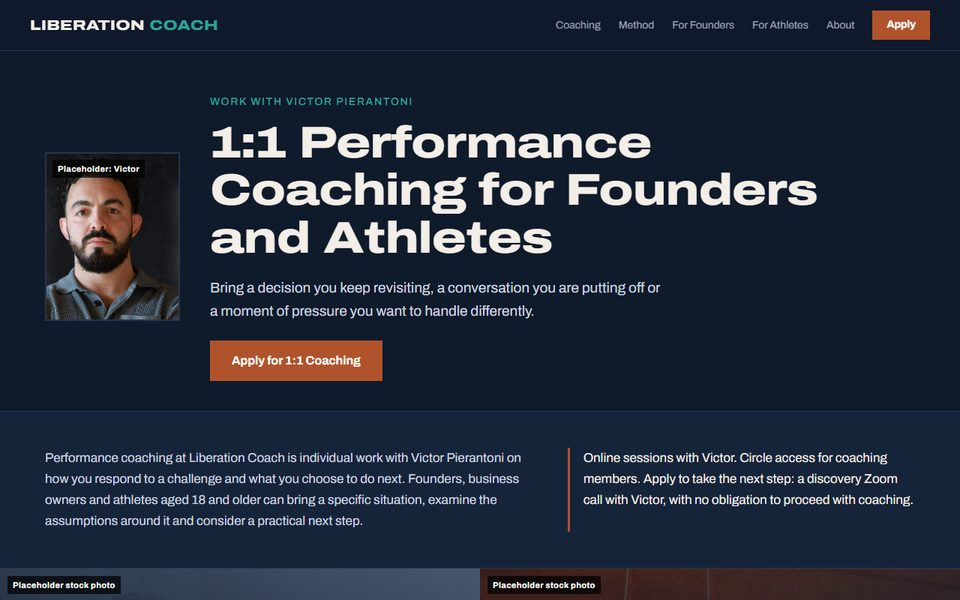
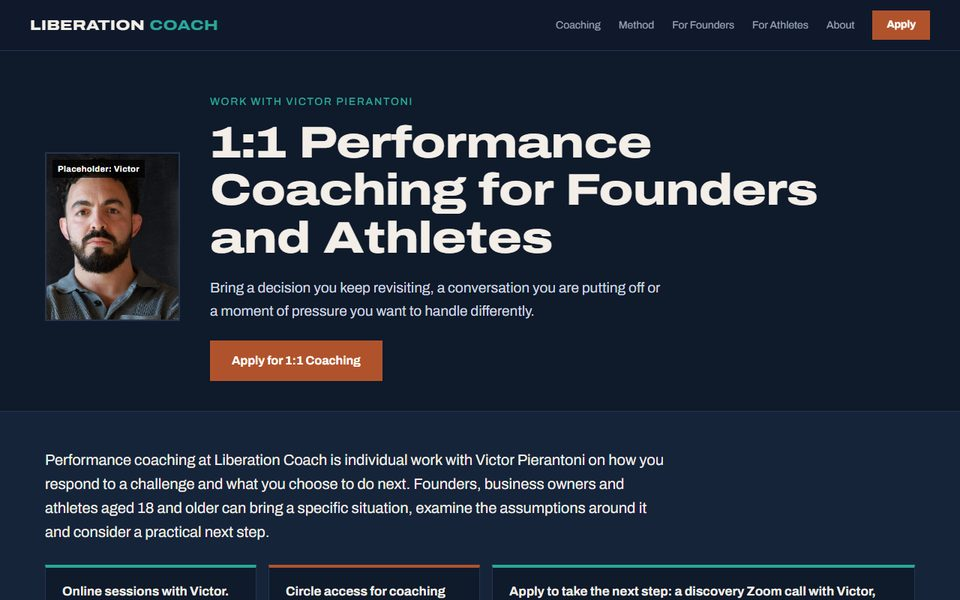
Distinct section designs per option; secondary links as real buttons
- Option 1: drop-cap intro with a fact box, wide banner photo for "Turn a
  Broad Concern", interview-style quick answers, double-ruled final card
- Option 2: text card overlapping the photo, reflection text on a card over
  the lake photo, centered answers with ornaments, arch-shaped final panel
- Option 3: three fact tiles, photo bleeding to the edge, Victor photo on a
  clay offset block, solid clay reflection band, answer cards, split final
- Secondary links now filled buttons with a border and arrow in each style

Changed region(s): [[0.0312, 0.75, 0.9688, 0.9], [0.0, 0.93, 1.0, 1.0]]

diff --git a/option-3/index.html b/option-3/index.html
@@ -28,9 +28,10 @@ header.open .mobile-nav{display:block}
 /* one Apply treatment: clay, white text */
 .btn{display:inline-block;background:var(--clay);color:#fff;border:1px solid var(--clay);font-weight:700;text-decoration:none;padding:16px 28px;font-size:16px;line-height:1.2;transition:background .2s}
 .btn:hover{background:var(--clay-d)}.btn.sm{padding:10px 18px;font-size:14px}
-.qbtn{display:inline-block;border:1px solid var(--teal);color:var(--cream);text-decoration:none;font-weight:700;font-size:14px;line-height:1.2;padding:9px 16px;transition:background .2s,color .2s}
-.qbtn:hover{background:var(--teal);color:var(--navy)}
-.qbtn.on-light{border-color:var(--navy);color:var(--navy)}.qbtn.on-light:hover{background:var(--navy);color:#fff}
+.qbtn{display:inline-flex;align-items:center;gap:10px;background:rgba(42,166,154,.18);border:2px solid var(--teal);border-radius:3px;color:#fff;text-decoration:none;font-weight:700;font-size:15px;line-height:1.2;padding:12px 20px;cursor:pointer;transition:background .2s,color .2s}
+.qbtn:after{content:"\2192";font-size:1.15em;transition:transform .2s}
+.qbtn:hover{background:var(--teal);color:var(--navy)}.qbtn:hover:after{transform:translateX(3px)}
+.qbtn.on-light{background:rgba(15,26,43,.07);border-color:var(--navy);color:var(--navy)}.qbtn.on-light:hover{background:var(--navy);color:#fff}
 .in{max-width:1240px;margin:0 auto;padding:0 40px}
 .eyebrow{color:var(--teal);font-size:14px;letter-spacing:.12em;text-transform:uppercase;font-weight:500;margin:0 0 12px}
 h1{font-size:clamp(36px,4.6vw,62px);line-height:1.08;margin:0 0 18px;letter-spacing:-.01em}
@@ -46,29 +47,36 @@ section{padding:var(--gap) 0}
 .sit{color:var(--body);max-width:56ch;font-size:19px;margin:0 0 24px}
 /* intro strip */
 .intro{background:var(--navy2);border-top:1px solid var(--line);border-bottom:1px solid var(--line)}
-.intro .in{display:grid;grid-template-columns:1.4fr 1fr;gap:48px}
-.intro p{margin:0;color:var(--body)}.intro .fact{color:var(--cream);border-left:3px solid var(--clay);padding-left:18px}
+.intro p{margin:0;color:var(--cream);font-size:20px;line-height:1.6;max-width:72ch}
+.facts{display:grid;grid-template-columns:1fr 1fr 2fr;gap:16px;list-style:none;padding:0;margin:28px 0 0}
+.facts li{background:var(--navy);border:1px solid var(--line);border-top:4px solid var(--teal);padding:20px 22px;font-weight:700;line-height:1.45}
+.facts li:nth-child(2){border-top-color:var(--clay)}
 /* arena: full-bleed split panels */
 .arena{display:grid;grid-template-columns:1fr 1fr;padding:0}
 .side{position:relative;padding:56px 48px 48px;display:flex;flex-direction:column;justify-content:flex-start;overflow:hidden}
 .side.f{background:linear-gradient(200deg,rgba(29,49,80,.82),rgba(15,26,43,.95) 70%),url(../assets/stock/founder-thinking.jpg) center/cover}
 .side.a{background:linear-gradient(160deg,rgba(59,36,32,.82),rgba(15,26,43,.95) 70%),url(../assets/stock/athlete-tennis-clay.jpg) center/cover}
 .side>*:not(.phl){position:relative}.side p{color:#d6dce5;max-width:50ch}.side h3{font-size:28px}.side .qbtn{align-self:flex-start}
-.side.a .qbtn{border-color:#e08a62}
+.side.a .qbtn{border-color:#e08a62;background:rgba(224,138,98,.18)}.side.a .qbtn:hover{background:#e08a62;color:var(--navy)}
 /* work */
-.work .in{display:grid;grid-template-columns:1.1fr .9fr;gap:64px;align-items:center}
-.work p{color:var(--body);max-width:60ch}
-.work img{width:100%;aspect-ratio:4/5;object-fit:cover;display:block;border-left:4px solid var(--clay)}
+.work{overflow:hidden}
+.work .in{display:grid;grid-template-columns:1fr 1fr;gap:64px;align-items:center}
+.work p{color:var(--body);max-width:60ch}.work strong{color:var(--teal)}
+.work .ph-wrap{margin-right:min(-40px,calc((1240px - 100vw)/2 - 40px))}
+.work img{width:100%;aspect-ratio:6/5;object-fit:cover;display:block;border-left:6px solid var(--clay)}
 /* meet: cream band */
 .meet{background:var(--cream);color:var(--navy)}
-.meet .in{display:grid;grid-template-columns:.8fr 1.2fr;gap:64px;align-items:center}
+.meet .in{display:grid;grid-template-columns:1.25fr .75fr;gap:80px;align-items:center}
+.meet .ph-wrap{box-shadow:20px 20px 0 var(--clay);margin:0 20px 20px 0}
 .meet img{width:100%;aspect-ratio:4/5;object-fit:cover;display:block}
 .meet p{color:#2b3647;max-width:60ch}.meet p a{color:var(--clay-d);font-weight:500}
 /* emotional: bar + photo background */
-.emo{background:linear-gradient(90deg,rgba(22,36,58,.97) 45%,rgba(22,36,58,.8)),url(../assets/stock/misty-lake.jpg) center/cover}
-.emo .in{display:grid;grid-template-columns:auto 1fr;gap:48px;align-items:start}
-.emo .bar{width:6px;height:100%;min-height:120px;background:linear-gradient(var(--teal),var(--clay))}
-.emo p{color:var(--body);max-width:64ch}
+.emo{background:var(--clay-d);color:#fff;display:grid;grid-template-columns:1.1fr .9fr;padding:0}
+.emo .txt{padding:var(--gap) 64px var(--gap) max(40px,calc((100vw - 1240px)/2 + 40px));align-self:center}
+.emo .bar{width:64px;height:6px;background:#fff;margin-bottom:22px}
+.emo p{color:#fff;max-width:56ch}
+.emo .ph-wrap{min-height:100%}.emo img{width:100%;height:100%;min-height:380px;object-fit:cover;display:block}
+.qbtn.on-clay{background:rgba(255,255,255,.14);border-color:#fff;color:#fff}.qbtn.on-clay:hover{background:#fff;color:var(--clay-d)}
 /* begin: cards on photo background */
 .begin{background:linear-gradient(rgba(15,26,43,.86),rgba(15,26,43,.93)),url(../assets/stock/video-call.jpg) center/cover;padding:var(--gap) 0 calc(var(--gap) - 20px)}
 .steps{display:grid;grid-template-columns:repeat(3,1fr);gap:20px;list-style:none;padding:0;margin:24px 0 26px;counter-reset:s}
@@ -76,13 +84,14 @@ section{padding:var(--gap) 0}
 .steps li:nth-child(2){border-color:var(--clay)}.steps li:before{content:"0" counter(s);font-weight:800;font-stretch:125%;font-size:30px;color:#ffffff30;display:block}
 .steps h3{font-size:22px}.steps p{margin:0;color:var(--body)}
 /* answers: three teal cards */
-.qa{display:grid;grid-template-columns:repeat(3,1fr);gap:2px;background:var(--line);margin-bottom:24px}
-.qa div{background:var(--navy);padding:28px 26px 28px 0}.qa div+div{padding-left:26px}
-.qa h3{font-size:20px;color:var(--teal)}.qa p{margin:0;color:var(--body)}
+.qa{display:grid;grid-template-columns:repeat(3,1fr);gap:20px;margin-bottom:28px}
+.qa div{position:relative;background:var(--navy2);border-left:5px solid var(--teal);padding:30px 28px;overflow:hidden}
+.qa div:after{content:"?";position:absolute;right:14px;top:-6px;font-weight:800;font-stretch:125%;font-size:84px;line-height:1;color:rgba(255,255,255,.07)}
+.qa h3{font-size:20px;color:var(--teal);position:relative}.qa p{margin:0;color:var(--body);position:relative}
 /* final: light cream band so the clay Apply stays the same */
 .final{background:var(--cream);color:var(--navy);padding:var(--gap) 0;border-top:6px solid var(--clay)}
-.final .in{max-width:940px;text-align:center}
-.final h2{font-size:clamp(30px,3.8vw,50px)}.final p{color:#2b3647;max-width:62ch;margin:0 auto 14px}.final p a:not(.btn){color:var(--clay-d);font-weight:700}
+.final .in{display:grid;grid-template-columns:1.05fr .95fr;gap:64px;align-items:center}
+.final h2{font-size:clamp(32px,4vw,54px);margin:0;padding-left:28px;border-left:8px solid var(--clay)}.final p{color:#2b3647;margin:0 0 14px}.final p a:not(.btn){color:var(--clay-d);font-weight:700}
 .final .next{font-size:15px;margin-top:16px}
 footer{background:#0b1320;color:#a9b4c2;font-size:14px}
 footer .in{display:flex;flex-wrap:wrap;gap:16px 28px;justify-content:space-between;align-items:center;padding:32px 40px}
@@ -94,14 +103,14 @@ footer nav{display:flex;gap:18px;flex-wrap:wrap}footer nav a{color:var(--body)}
  :root{--gap:44px}.in{padding:0 18px}
  .top{grid-template-columns:1fr;gap:12px;padding-top:18px;padding-bottom:44px}.top .ph-wrap,.top img{width:84px}.top img{height:104px}.top .ph-wrap{display:flex;flex-direction:column-reverse;align-items:flex-start}.top .phl{position:static;display:inline-block;margin-top:6px;white-space:nowrap}
  h1{font-size:30px}.sit{font-size:17px;margin-bottom:20px}
- .intro .in{grid-template-columns:1fr;gap:16px}
+ .intro p{font-size:18px}.facts{grid-template-columns:1fr;gap:10px}
  .arena{grid-template-columns:1fr}.side{padding:44px 20px 36px;min-height:auto}
- .work .in{grid-template-columns:1fr;gap:24px}.work img{aspect-ratio:16/10}
- .meet .in{grid-template-columns:1fr;gap:24px}.meet .ph-wrap{max-width:200px}
- .emo .in{grid-template-columns:1fr;gap:16px}.emo .bar{width:48px;height:4px;min-height:0}
+ .work .in{grid-template-columns:1fr;gap:24px}.work .ph-wrap{margin-right:-18px}.work img{aspect-ratio:16/10}
+ .meet .in{grid-template-columns:1fr;gap:28px}.meet .ph-wrap{max-width:200px;box-shadow:12px 12px 0 var(--clay)}
+ .emo{grid-template-columns:1fr}.emo .txt{padding:var(--gap) 18px}.emo img{min-height:0;aspect-ratio:16/10}
  .steps{grid-template-columns:1fr}
- .qa{grid-template-columns:1fr}.qa div,.qa div+div{padding:22px 0}
- .final .btn{display:block}footer .in{padding:28px 18px}
+ .qa{grid-template-columns:1fr;gap:12px}.qa div{padding:24px 22px}
+ .final .in{grid-template-columns:1fr;gap:24px}.final h2{padding-left:18px;border-left-width:6px}.final .btn{display:block;text-align:center}footer .in{padding:28px 18px}
  .mbar{display:block;position:fixed;left:0;right:0;bottom:0;z-index:9;background:rgba(15,26,43,.97);border-top:1px solid var(--line);padding:10px 16px}
  .mbar .btn{display:block;text-align:center}body{padding-bottom:76px}
 }
@@ -125,7 +134,7 @@ footer nav{display:flex;gap:18px;flex-wrap:wrap}footer nav a{color:var(--body)}
 
 <section class="intro" aria-label="About the coaching"><div class="in">
  <p>Performance coaching at Liberation Coach is individual work with Victor Pierantoni on how you respond to a challenge and what you choose to do next. Founders, business owners and athletes aged 18 and older can bring a specific situation, examine the assumptions around it and consider a practical next step.</p>
- <p class="fact">Online sessions with Victor. Circle access for coaching members. Apply to take the next step: a discovery Zoom call with Victor, with no obligation to proceed with coaching.</p>
+ <ul class="facts"><li>Online sessions with Victor.</li><li>Circle access for coaching members.</li><li>Apply to take the next step: a discovery Zoom call with Victor, with no obligation to proceed with coaching.</li></ul>
 </div></section>
 
 <section class="arena" aria-label="Who the coaching is for">
@@ -136,7 +145,7 @@ footer nav{display:flex;gap:18px;flex-wrap:wrap}footer nav a{color:var(--body)}
 <section class="work"><div class="in">
  <div>
   <h2 class="wide">Turn a Broad Concern Into Something You Can Work On</h2>
-  <p>You might call it a mental block: you keep second-guessing a decision or putting off a conversation. Start with that specific situation. What happened? What are you assuming it means? What do you need to find out before deciding?</p>
+  <p>You might call it a mental block: you keep second-guessing a decision or putting off a conversation. Start with that specific situation. <strong>What happened? What are you assuming it means? What do you need to find out before deciding?</strong></p>
   <p>In performance coaching, you and Victor work together on those questions. Personal growth can mean a change you choose in your own life, such as asking a question you have avoided, checking an assumption or taking an action you chose. You can then review what you did and what you learned.</p>
   <a class="qbtn" href="#" data-planned-page title="Page not designed yet">See what a session can involve</a>
  </div>
@@ -144,23 +153,24 @@ footer nav{display:flex;gap:18px;flex-wrap:wrap}footer nav a{color:var(--body)}
 </div></section>
 
 <section class="meet"><div class="in">
- <figure class="ph-wrap"><span class="phl">Placeholder: Victor</span><img src="../assets/victor-portrait-400.jpg" alt="Portrait of Victor Pierantoni"></figure>
  <div>
   <h2 class="wide">A Coach With a Background in Martial Arts and Philosophy</h2>
   <p>Victor Pierantoni is the coach behind Liberation Coach. His background includes martial arts and the Zen and Stoic ideas he has discussed through Zen Stoic. His teaching considers attention, emotional experience and the choices people make in everyday life.</p>
   <p>Hear Victor discuss these ideas in <a href="http://supermamas.com/episodeblog/ep235-learning-to-stay-sane-and-zen-stoic-while-in-quarantine-with-life-coach-victor-pierantoni-of-zen-stoic-mastery" rel="noopener" target="_blank">Super Mamas, episode 235 (2020)</a> and <a href="https://podcasts.apple.com/ie/podcast/victor-pierantoni-the-zen-stoic-on-the-similarities/id1531794099?i=1000620849756" rel="noopener" target="_blank">Acta Non Verba, episode 156 (2023)</a>. These conversations give background to his ideas.</p>
   <a class="qbtn on-light" href="#" data-planned-page title="Page not designed yet">Read Victor's background</a>
  </div>
+ <figure class="ph-wrap"><span class="phl">Placeholder: Victor</span><img src="../assets/victor-portrait-400.jpg" alt="Portrait of Victor Pierantoni"></figure>
 </div></section>
 
-<section class="emo bg-sec"><span class="phl">Placeholder stock photo</span><div class="in">
- <div class="bar" aria-hidden="true"></div>
- <div>
+<section class="emo">
+ <div class="txt">
+  <div class="bar" aria-hidden="true"></div>
   <h2 class="wide">Reflection and Emotional Awareness</h2>
   <p>Victor's emotional-awareness teaching includes noticing bodily sensations associated with a feeling. His reflective questions examine the situation and your interpretation of it. The Method page explains these parts of his work in plain language.</p>
-  <a class="qbtn" href="#" data-planned-page title="Page not designed yet">Understand Victor's approach</a>
+  <a class="qbtn on-clay" href="#" data-planned-page title="Page not designed yet">Understand Victor's approach</a>
  </div>
-</div></section>
+ <figure class="ph-wrap"><span class="phl">Placeholder stock photo</span><img src="../assets/stock/misty-lake.jpg" alt="Misty lake at dawn" loading="lazy"></figure>
+</section>
 
 <section class="begin bg-sec"><span class="phl">Placeholder stock photo</span><div class="in">
  <h2 class="wide">A Conversation Is the Next Step</h2>
@@ -183,9 +193,11 @@ footer nav{display:flex;gap:18px;flex-wrap:wrap}footer nav a{color:var(--body)}
 
 <section class="final"><div class="in">
  <h2 class="wide">Bring the Situation You Want to Approach Differently</h2>
+ <div>
  <p>Explore <a href="#" data-planned-page title="Page not designed yet">Victor's background</a> and <a href="#" data-planned-page title="Page not designed yet">how he approaches coaching</a>, then describe what you would like to work on. Coaching is educational and does not replace medical, psychological, legal or financial advice.</p>
  <p style="margin-top:26px"><a class="btn" href="#" data-planned-page title="Page not designed yet">Apply for 1:1 Coaching</a></p>
  <p class="next">Your next step is a discovery Zoom call with Victor, with no obligation to proceed with coaching.</p>
+ </div>
 </div></section>
 </main>
 <footer><div class="in"><span>&copy; 2026 Liberation Coach Inc.</span>

diff --git a/option-1/index.html b/option-1/index.html
@@ -27,9 +27,10 @@ header.open .mobile-nav{display:block}
 /* buttons: one Apply style everywhere; quiet secondary buttons */
 .btn{display:inline-block;background:var(--ink);color:var(--paper);border:1px solid var(--ink);text-decoration:none;font-weight:600;padding:15px 26px;font-size:16px;line-height:1.2;transition:background .2s}
 .btn:hover{background:#000}.btn.sm{padding:10px 18px;font-size:14px}
-.qbtn{display:inline-block;border:1px solid var(--teal);color:var(--teal);background:transparent;text-decoration:none;font-weight:600;font-size:14px;line-height:1.2;padding:9px 16px;transition:background .2s,color .2s}
-.qbtn:hover{background:var(--teal);color:#fff}
-.qbtn.on-dark{border-color:var(--teal-l);color:var(--teal-l)}.qbtn.on-dark:hover{background:var(--teal-l);color:var(--ink)}
+.qbtn{display:inline-flex;align-items:center;gap:10px;background:#dfebe8;border:1.5px solid var(--teal);color:#0b5550;text-decoration:none;font-weight:600;font-size:15px;line-height:1.2;padding:12px 20px;box-shadow:0 3px 0 rgba(15,107,100,.28);cursor:pointer;transition:background .2s,color .2s,transform .2s}
+.qbtn:after{content:"\2192";font-size:1.1em;transition:transform .2s}
+.qbtn:hover{background:var(--teal);color:#fff;transform:translateY(-1px)}.qbtn:hover:after{transform:translateX(3px)}
+.qbtn.on-dark{background:rgba(127,201,192,.16);border-color:var(--teal-l);color:#fff;box-shadow:0 3px 0 rgba(127,201,192,.3)}.qbtn.on-dark:hover{background:var(--teal-l);color:var(--ink)}
 .eyebrow{font-size:14px;letter-spacing:.08em;text-transform:uppercase;color:var(--teal);font-weight:600;margin:0 0 18px}
 h1{font:400 clamp(40px,5.2vw,68px)/1.08 "Fraunces",serif;margin:0 0 22px;letter-spacing:-.01em}h1 em,h2 em{font-style:italic;color:var(--teal)}
 h2{font:400 clamp(32px,3.6vw,48px)/1.12 "Fraunces",serif;margin:0 0 18px;letter-spacing:-.005em}
@@ -44,16 +45,20 @@ section{padding:var(--gap) 0}
 .sit{max-width:52ch;font:italic 400 21px/1.5 "Fraunces",serif;border-left:2px solid var(--teal);padding-left:18px;margin:0 0 28px}
 .portrait img{width:100%;aspect-ratio:4/5;object-fit:cover;object-position:50% 12%;display:block}
 /* intro strip (moved hero paragraph) */
-.intro{border-top:1px solid var(--rule);border-bottom:1px solid var(--rule);display:grid;grid-template-columns:1.4fr 1fr;gap:48px}
-.intro p{margin:0;color:#2b2e33}.intro .fact{color:var(--ink);font-weight:500;border-left:2px solid var(--teal);padding-left:18px}
+.intro{display:grid;grid-template-columns:1.6fr 1fr;gap:64px;align-items:start}
+.intro p{margin:0}.intro .lead{font:400 23px/1.55 "Fraunces",serif;color:var(--ink)}
+.intro .lead:first-letter{float:left;font-size:4.1em;line-height:.82;padding:8px 12px 0 0;color:var(--teal)}
+.intro .fact{background:var(--paper2);border-top:3px solid var(--teal);padding:26px 28px;font-weight:500;color:var(--ink)}
 /* routes */
 .routes{display:grid;grid-template-columns:1fr 1fr;gap:48px}
 .route img{width:100%;aspect-ratio:16/10;object-fit:cover;display:block}
 .route h3{margin-top:22px}.route p{color:#2b2e33;max-width:52ch}
 /* work: text left, photo right */
-.work{display:grid;grid-template-columns:1.15fr .85fr;gap:72px;align-items:center}
+.work .ph-wrap{margin-bottom:40px}
+.work img{width:100%;aspect-ratio:21/8;object-fit:cover;object-position:50% 48%;display:block}
+.work .cols{display:grid;grid-template-columns:.85fr 1.15fr;gap:72px;align-items:start}
+.work h2{border-top:3px solid var(--ink);padding-top:22px}
 .work p{max-width:62ch;color:#2b2e33}.work .q{font:italic 400 1.08em/1 "Fraunces",serif;color:var(--teal)}
-.work img{width:100%;aspect-ratio:4/5;object-fit:cover;display:block}
 /* meet: dark band */
 .meet{background:var(--ink);color:var(--paper)}
 .meet .in{display:grid;grid-template-columns:.7fr 1.3fr;gap:72px;max-width:1200px;margin:0 auto;padding:0 40px;align-items:center}
@@ -70,13 +75,14 @@ section{padding:var(--gap) 0}
 .steps li:before{content:counter(s);font:italic 400 34px/1 "Fraunces",serif;color:var(--teal)}
 .steps h3{font-size:22px;margin:0 0 6px}.steps p{margin:0;color:#2b2e33}
 /* answers: three columns */
-.answers{display:grid;grid-template-columns:repeat(3,1fr);border-top:1px solid var(--rule);border-bottom:1px solid var(--rule)}
-.answers div{padding:32px 32px 32px 0}.answers div+div{padding-left:32px;border-left:1px solid var(--rule)}
-.answers h3{font-size:22px}.answers p{color:#2b2e33;margin:0}
-.after{margin-top:22px}
+.answers{max-width:800px;margin:0 auto;border-bottom:1px solid var(--rule)}
+.answers div{display:grid;grid-template-columns:72px 1fr;padding:26px 0;border-top:1px solid var(--rule)}
+.answers div:before{content:"\201C";font:italic 400 72px/.8 "Fraunces",serif;color:var(--teal);grid-row:span 2}
+.answers h3{font-size:26px;font-style:italic;font-weight:400;margin:0 0 6px}.answers p{color:#2b2e33;margin:0}
+.after{margin-top:26px;text-align:center}
 /* final: light band so the dark Apply button stays the same */
-.final{background:var(--paper2);border-top:1px solid var(--rule);padding:var(--gap) 0}
-.final .in{max-width:860px;margin:0 auto;padding:0 40px;text-align:center}
+.final{background:var(--paper2);border-top:1px solid var(--rule);padding:32px 40px}
+.final .in{max-width:940px;margin:0 auto;padding:44px 64px;text-align:center;background:var(--paper);border:1px solid var(--ink);outline:1px solid var(--ink);outline-offset:-10px}
 .final h2{font-size:clamp(34px,4.4vw,56px)}.final p{color:#2b2e33;max-width:62ch;margin:0 auto 14px}.final p a:not(.btn){color:var(--teal);font-weight:600}
 .final .next{font-size:15px;color:var(--muted);margin-top:16px}
 footer{background:var(--ink2);color:#c9c3b8;font-size:14px}
@@ -91,14 +97,14 @@ footer nav{display:flex;gap:18px;flex-wrap:wrap}footer nav a{color:#e4dfd5}
  :root{--gap:44px}.wrap{padding:0 20px}
  .hero{grid-template-columns:1fr;gap:16px;padding-top:24px}.portrait{order:-1;max-width:110px;display:flex;flex-direction:column-reverse;align-items:flex-start}.portrait .phl{position:static;display:inline-block;margin-top:6px;white-space:nowrap;background:none;padding:0;color:#4a4f55}
  .hero h1{font-size:40px}.sit{font-size:19px;margin-bottom:22px}
- .intro{grid-template-columns:1fr;gap:16px}
+ .intro{grid-template-columns:1fr;gap:20px}.intro .lead{font-size:20px}
  .routes{grid-template-columns:1fr;gap:36px}
- .work{grid-template-columns:1fr;gap:24px}.work img{aspect-ratio:16/10}
+ .work .ph-wrap{margin-bottom:24px}.work img{aspect-ratio:16/10}.work .cols{grid-template-columns:1fr;gap:4px}
  .meet .in{grid-template-columns:1fr;gap:24px;padding:0 20px}.meet .ph-wrap{max-width:180px}
  .emo .in{padding:0 20px}
  .begin{grid-template-columns:1fr;gap:8px}.begin img{aspect-ratio:16/10}
- .answers{grid-template-columns:1fr}.answers div,.answers div+div{padding:24px 0;border-left:0}.answers div+div{border-top:1px solid var(--rule)}
- .final .in{padding:0 20px}.final .btn{display:block}
+ .answers div{grid-template-columns:44px 1fr;padding:22px 0}.answers div:before{font-size:52px}.answers h3{font-size:22px}
+ .final{padding-left:16px;padding-right:16px}.final .in{padding:40px 22px}.final .btn{display:block}
  footer .in{padding:28px 20px}
  .mbar{display:block;position:fixed;left:0;right:0;bottom:0;z-index:9;background:rgba(244,239,230,.97);border-top:1px solid var(--rule);padding:10px 16px}
  .mbar .btn{display:block;text-align:center}body{padding-bottom:76px}
@@ -126,7 +132,7 @@ footer nav{display:flex;gap:18px;flex-wrap:wrap}footer nav a{color:#e4dfd5}
 </section>
 
 <section class="intro" aria-label="About the coaching">
- <p>Performance coaching at Liberation Coach is individual work with Victor Pierantoni on how you respond to a challenge and what you choose to do next. Founders, business owners and athletes aged 18 and older can bring a specific situation, examine the assumptions around it and consider a practical next step.</p>
+ <p class="lead">Performance coaching at Liberation Coach is individual work with Victor Pierantoni on how you respond to a challenge and what you choose to do next. Founders, business owners and athletes aged 18 and older can bring a specific situation, examine the assumptions around it and consider a practical next step.</p>
  <p class="fact">Online sessions with Victor. Circle access for coaching members. Apply to take the next step: a discovery Zoom call with Victor, with no obligation to proceed with coaching.</p>
 </section>
 
@@ -136,13 +142,15 @@ footer nav{display:flex;gap:18px;flex-wrap:wrap}footer nav a{color:#e4dfd5}
 </section>
 
 <section class="work">
- <div>
+ <figure class="ph-wrap"><span class="phl">Placeholder stock photo</span><img src="../assets/stock/writing-notes.jpg" alt="Man writing notes while working through a question" loading="lazy"></figure>
+ <div class="cols">
   <h2>Turn a Broad Concern Into Something You Can <em>Work On</em></h2>
+  <div>
   <p>You might call it a mental block: you keep second-guessing a decision or putting off a conversation. Start with that specific situation. <span class="q">What happened?</span> <span class="q">What are you assuming it means?</span> <span class="q">What do you need to find out before deciding?</span></p>
   <p>In performance coaching, you and Victor work together on those questions. Personal growth can mean a change you choose in your own life, such as asking a question you have avoided, checking an assumption or taking an action you chose. You can then review what you did and what you learned.</p>
   <a class="qbtn" href="#" data-planned-page title="Page not designed yet">See what a session can involve</a>
+  </div>
  </div>
- <figure class="ph-wrap"><span class="phl">Placeholder stock photo</span><img src="../assets/stock/writing-notes.jpg" alt="Man writing notes while working through a question" loading="lazy"></figure>
 </section>
 </div>
 

diff --git a/option-2/index.html b/option-2/index.html
@@ -28,9 +28,9 @@ header.open .mobile-nav{display:block}
 /* buttons */
 .btn{display:inline-block;border:1px solid var(--ink);background:var(--ink);color:var(--chalk);text-decoration:none;font-weight:600;padding:15px 30px;letter-spacing:.03em;line-height:1.2;transition:background .2s}
 .btn:hover{background:#000}.btn.sm{padding:9px 16px;font-size:14px}
-.qbtn{display:inline-block;border:1px solid var(--teal);color:var(--teal);text-decoration:none;font-weight:600;font-size:13px;letter-spacing:.08em;text-transform:uppercase;padding:9px 16px;line-height:1.2;transition:background .2s,color .2s}
-.qbtn:hover{background:var(--teal);color:#fff}
-.qbtn.on-dark{border-color:#fff;color:#fff}.qbtn.on-dark:hover{background:#fff;color:var(--ink)}
+.qbtn{display:inline-flex;align-items:center;gap:10px;background:#fbfaf7;border:1.5px solid var(--teal);color:var(--teal);text-decoration:none;font-weight:700;font-size:13px;letter-spacing:.1em;text-transform:uppercase;padding:13px 20px;line-height:1.2;box-shadow:4px 4px 0 var(--rule);cursor:pointer;transition:background .2s,color .2s,box-shadow .2s}
+.qbtn:after{content:"\2192";font-size:1.2em;letter-spacing:0;transition:transform .2s}
+.qbtn:hover{background:var(--teal);color:#fff;box-shadow:2px 2px 0 var(--rule)}.qbtn:hover:after{transform:translateX(3px)}
 .eyebrow{font-size:13px;letter-spacing:.2em;text-transform:uppercase;color:var(--teal);font-weight:600;margin:0 0 14px}
 h1{font:500 clamp(42px,5.4vw,72px)/1.1 "Cormorant Garamond",serif;margin:0 0 22px}h1 i,h2 i{color:var(--teal)}
 h1 .num{font-family:"Manrope",sans-serif;font-weight:500;font-size:.82em;letter-spacing:-.01em}
@@ -57,9 +57,11 @@ section{padding:var(--gap) 0}
 .row img{width:100%;aspect-ratio:3/2;object-fit:cover;display:block;outline:1px solid var(--rule);outline-offset:8px}
 .row p{color:#32373b;max-width:50ch}
 /* work: text left, photo right */
-.work{display:grid;grid-template-columns:1.1fr .9fr;gap:64px;align-items:center;border-top:1px solid var(--rule)}
-.work p{color:#32373b;max-width:58ch}.work em{font-family:"Cormorant Garamond",serif;font-size:1.15em;color:var(--teal)}
-.work img{width:100%;max-width:440px;aspect-ratio:4/5;object-fit:cover;display:block;margin-left:auto;outline:1px solid var(--rule);outline-offset:8px}
+.work{display:grid;grid-template-columns:repeat(12,1fr);align-items:center}
+.work>div{grid-column:1/8;grid-row:1;position:relative;z-index:1;background:var(--chalk);padding:48px 52px;outline:1px solid var(--rule);outline-offset:-12px;box-shadow:0 18px 40px rgba(34,38,42,.12)}
+.work .ph-wrap{grid-column:7/13;grid-row:1}.work .ph-wrap .phl{left:auto;right:10px}
+.work p{color:#32373b}.work em{font-family:"Cormorant Garamond",serif;font-size:1.15em;color:var(--teal)}
+.work img{width:100%;aspect-ratio:5/6;object-fit:cover;display:block}
 /* meet: centered on chalk */
 .meet{background:var(--chalk);border-top:1px solid var(--rule);border-bottom:1px solid var(--rule)}
 .meet .in{max-width:820px;margin:0 auto;padding:0 40px;text-align:center}
@@ -68,9 +70,9 @@ section{padding:var(--gap) 0}
 .meet .portrait .phl{top:auto;bottom:-16px;left:50%;transform:translateX(-50%);white-space:nowrap}
 .meet p{color:#32373b;max-width:62ch;margin-left:auto;margin-right:auto}.meet p a{color:var(--teal)}
 /* emotional: photo background */
-.emo{text-align:center;padding:var(--gap) 24px;background:linear-gradient(rgba(34,38,42,.66),rgba(34,38,42,.76)),url(../assets/stock/misty-lake.jpg) center 45%/cover}
-.emo>*:not(.phl){max-width:760px;margin-left:auto;margin-right:auto}
-.emo h2{color:var(--chalk)}.emo p{color:#f6f3ee}.emo .orn{font:500 28px/1 "Cormorant Garamond",serif;color:var(--teal-l);letter-spacing:.6em;margin-bottom:18px}
+.emo{text-align:center;padding:var(--gap) 24px;background:linear-gradient(rgba(34,38,42,.18),rgba(34,38,42,.3)),url(../assets/stock/misty-lake.jpg) center 45%/cover}
+.emo .card{max-width:720px;margin:0 auto;background:rgba(243,240,234,.96);padding:36px 56px;outline:1px solid var(--rule);outline-offset:-12px}
+.emo p{color:#32373b}.emo .orn{font:500 28px/1 "Cormorant Garamond",serif;color:var(--teal);letter-spacing:.6em;margin-bottom:12px}
 /* begin: horizontal timeline */
 .begin{text-align:center;padding-bottom:calc(var(--gap) - 24px)}
 .begin .ph-wrap{max-width:680px;margin:22px auto 0}.begin img{width:100%;aspect-ratio:21/9;object-fit:cover;display:block}
@@ -80,14 +82,15 @@ section{padding:var(--gap) 0}
 .timeline li:before{content:counter(s,upper-roman);display:grid;place-items:center;width:44px;height:44px;margin:0 auto 16px;border:1px solid var(--rule);border-radius:50%;background:var(--stone);font:500 20px/1 "Cormorant Garamond",serif;color:var(--teal);position:relative}
 .timeline h3{font-size:25px}.timeline p{color:#32373b;margin:0}
 /* answers: two-column list */
-.answers{max-width:920px;margin:0 auto}
-.qa{border-top:1px solid var(--rule)}
-.qa>div{display:grid;grid-template-columns:.9fr 1.1fr;gap:40px;padding:22px 0;border-bottom:1px solid var(--rule)}
-.qa dt{font:600 24px/1.25 "Cormorant Garamond",serif}.qa dd{margin:0;color:#32373b}
+.answers{max-width:640px;margin:0 auto;text-align:center}
+.qa{margin:0}
+.qa>div{padding:0 0 26px}
+.qa>div+div:before{content:"\2766";display:block;color:var(--teal);font-size:20px;line-height:1;margin:0 0 22px}
+.qa dt{font:600 28px/1.25 "Cormorant Garamond",serif;margin:0 0 6px}.qa dd{margin:0;color:#32373b}
 .after{text-align:center;margin-top:26px}
 /* final: light chalk band, same dark Apply */
-.final{background:var(--chalk);border-top:1px solid var(--rule);padding:var(--gap) 0}
-.final .in{max-width:860px;margin:0 auto;padding:0 40px;text-align:center}
+.final{background:var(--stone);padding:16px 40px 0}
+.final .in{max-width:900px;margin:0 auto;padding:108px 72px 56px;text-align:center;background:var(--chalk);border:1px solid var(--rule);border-bottom:0;border-radius:450px 450px 0 0}
 .final h2{font-size:clamp(36px,4.4vw,58px)}.final p{color:#32373b;max-width:62ch;margin:0 auto 14px}.final p a:not(.btn){color:var(--teal);font-weight:600}
 .final .next{font-size:15px;color:var(--muted);margin-top:16px}
 footer{background:#22272b;color:#c3beb5;font-size:13px;text-align:center}
@@ -104,12 +107,12 @@ footer nav{display:flex;justify-content:center;flex-wrap:wrap;gap:12px 26px;marg
  .hero{padding-top:24px}.hero .portrait{width:84px;height:84px;margin-bottom:22px}
  .sit{font-size:20px;margin-bottom:22px}
  .row,.row.flip{grid-template-columns:1fr;gap:20px}.row.flip .ph-wrap{order:0}.row{text-align:center}.row p{margin-left:auto;margin-right:auto}
- .work{grid-template-columns:1fr;gap:24px;text-align:center}.work img{max-width:100%;aspect-ratio:16/10}
+ .work{display:block;text-align:center}.work>div{padding:32px 22px;margin:0 8px -28px}.work .ph-wrap .phl{top:auto;bottom:10px}.work img{aspect-ratio:16/10}
  .meet .in{padding:0 20px}.meet .portrait{width:130px;height:130px}
- .emo{padding-left:20px;padding-right:20px}
+ .emo{padding:56px 16px}.emo .card{padding:34px 22px}
  .timeline{grid-template-columns:1fr;gap:28px}.timeline:before{display:none}
- .qa>div{grid-template-columns:1fr;gap:6px}
- .final .in{padding:0 20px}.final .btn{display:block}
+ .qa dt{font-size:24px}
+ .final{padding:var(--gap) 12px 0}.final .in{padding:72px 20px 44px;border-radius:200px 200px 0 0}.final .btn{display:block}
  footer .in{padding:26px 20px}
  .mbar{display:block;position:fixed;left:0;right:0;bottom:0;z-index:9;background:rgba(232,228,220,.97);border-top:1px solid var(--rule);padding:10px 16px}
  .mbar .btn{display:block;text-align:center}body{padding-bottom:76px}
@@ -166,10 +169,12 @@ footer nav{display:flex;justify-content:center;flex-wrap:wrap;gap:12px 26px;marg
 </div></section>
 
 <section class="emo bg-sec"><span class="phl">Placeholder stock photo</span>
+ <div class="card">
  <div class="orn" aria-hidden="true">&middot; &middot; &middot;</div>
  <h2>Reflection and Emotional Awareness</h2>
  <p>Victor's emotional-awareness teaching includes noticing bodily sensations associated with a feeling. His reflective questions examine the situation and your interpretation of it. The Method page explains these parts of his work in plain language.</p>
- <a class="qbtn on-dark" href="#" data-planned-page title="Page not designed yet">Understand Victor's approach</a>
+ <a class="qbtn" href="#" data-planned-page title="Page not designed yet">Understand Victor's approach</a>
+ </div>
 </section>
 
 <div class="wrap">
